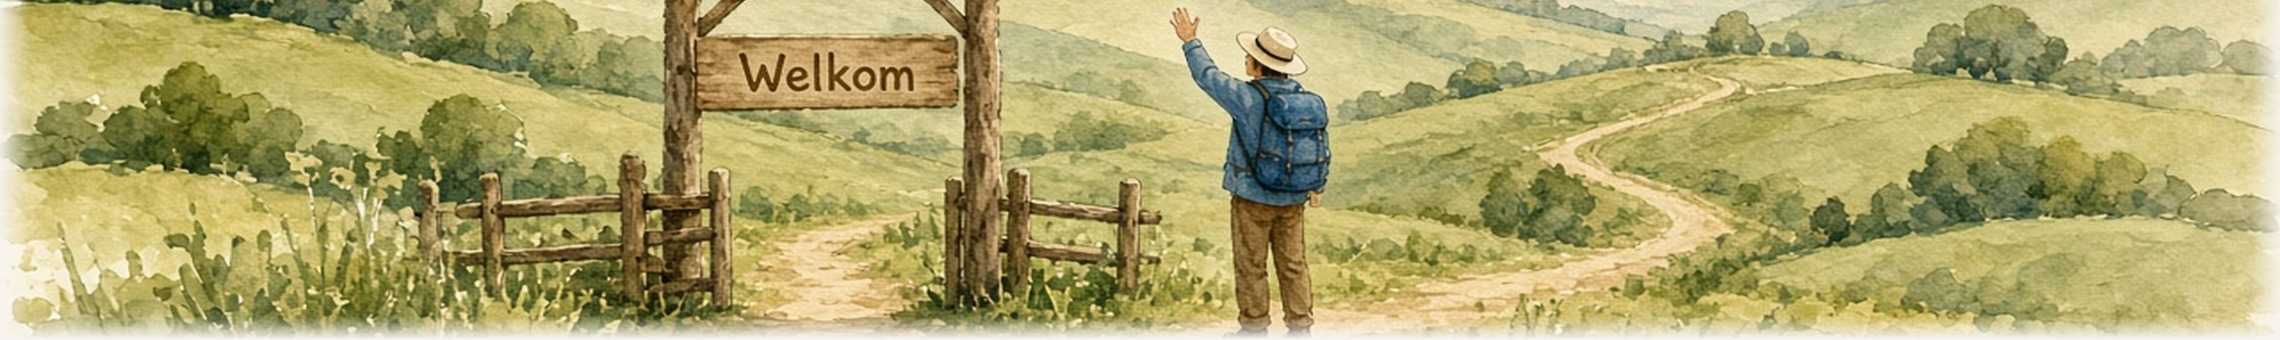
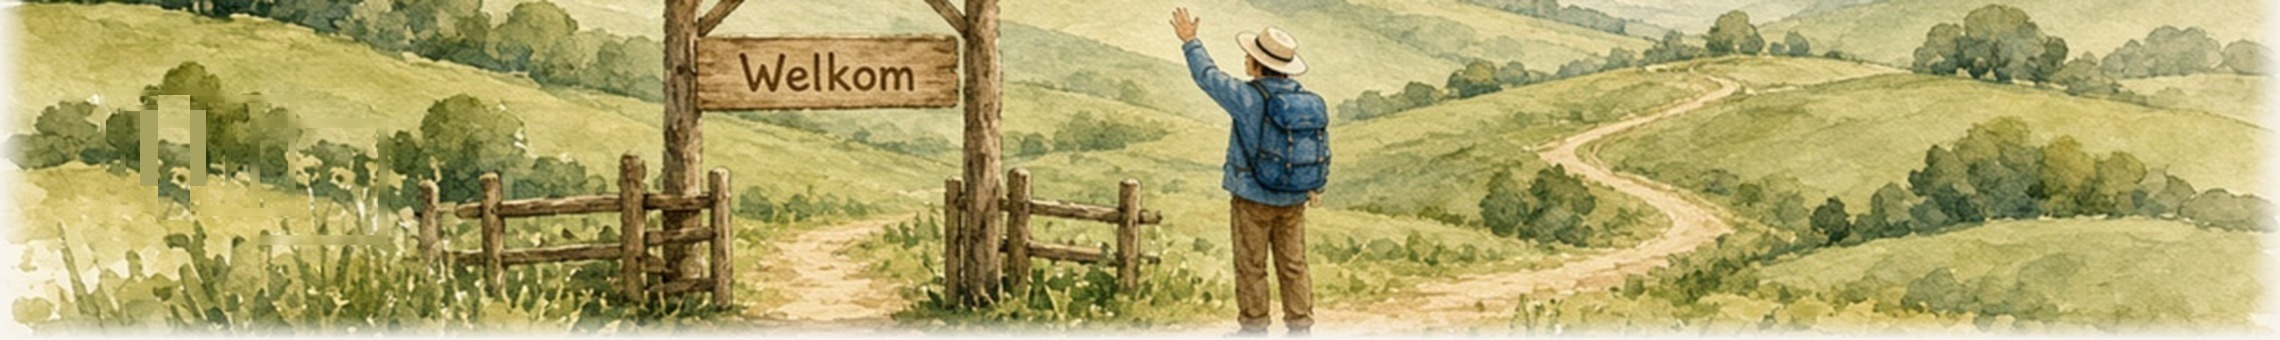
Start mockup start-b: hero without lobster, five phases, consistent timing.

diff --git a/Jobsy.Web/wwwroot/css/features/onboarding-rustig-mockup.css b/Jobsy.Web/wwwroot/css/features/onboarding-rustig-mockup.css
@@ -183,6 +183,22 @@
       var(--bg) 100%
     );
   }
+
+  .ob-rustig[data-ob-rustig-screen="start"] .ob-rustig__hero-band::after {
+    background: linear-gradient(
+      to bottom,
+      transparent 0%,
+      transparent 72%,
+      color-mix(in srgb, var(--bg) 28%, transparent) 88%,
+      color-mix(in srgb, var(--bg) 55%, transparent) 96%,
+      var(--bg) 100%
+    );
+  }
+
+  .ob-rustig[data-ob-rustig-screen="start"] .ob-rustig__hero-img {
+    object-fit: cover;
+    object-position: 42% 72%;
+  }
 }
 
 /* Step-06: full-width illustrated hero; title/lead in .ob-rustig__page-head below. */

diff --git a/tools/scripts/remove-onboarding-rustig-start-lobster.py b/tools/scripts/remove-onboarding-rustig-start-lobster.py
@@ -1,0 +1,104 @@
+#!/usr/bin/env python3
+"""Remove red lobster glyphs from start hero rasters (raw or band JPEGs)."""
+
+from __future__ import annotations
+
+import sys
+from pathlib import Path
+
+import numpy as np
+from PIL import Image
+
+ROOT = Path(__file__).resolve().parents[2]
+
+
+def lobster_red_mask(rgb: np.ndarray) -> np.ndarray:
+    r, g, b = rgb[:, :, 0], rgb[:, :, 1], rgb[:, :, 2]
+    return (r > 105) & (r > g + 16) & (r > b + 16) & (g < 140) & (b < 140)
+
+
+def glyph_mask(rgb: np.ndarray, *, max_cx_frac: float = 0.42) -> np.ndarray:
+    h, w = rgb.shape[:2]
+    mask = lobster_red_mask(rgb)
+    vis = np.zeros((h, w), dtype=bool)
+    glyph = np.zeros((h, w), dtype=bool)
+    for y in range(h):
+        for x in range(w):
+            if not mask[y, x] or vis[y, x]:
+                continue
+            stack = [(y, x)]
+            xs: list[int] = []
+            ys: list[int] = []
+            while stack:
+                cy, cx = stack.pop()
+                if cy < 0 or cy >= h or cx < 0 or cx >= w or vis[cy, cx] or not mask[cy, cx]:
+                    continue
+                vis[cy, cx] = True
+                xs.append(cx)
+                ys.append(cy)
+                stack.extend([(cy - 1, cx), (cy + 1, cx), (cy, cx - 1), (cy, cx + 1)])
+            area = len(xs)
+            if area < 10 or area > 8000:
+                continue
+            x0, x1 = min(xs), max(xs)
+            y0, y1 = min(ys), max(ys)
+            cxm = (x0 + x1) / 2 / w
+            if cxm > max_cx_frac:
+                continue
+            bh, bw = y1 - y0 + 1, x1 - x0 + 1
+            if bh > h * 0.45 or bw > w * 0.22:
+                continue
+            glyph[y0 : y1 + 1, x0 : x1 + 1] |= mask[y0 : y1 + 1, x0 : x1 + 1]
+    return glyph
+
+
+def inpaint(im: Image.Image, todo: np.ndarray) -> Image.Image:
+    rgb = np.asarray(im.convert("RGB"), dtype=np.float32)
+    h, w = rgb.shape[:2]
+    if not todo.any():
+        return im
+    out = rgb.copy()
+    ys, xs = np.where(todo)
+    for y, x in zip(ys, xs, strict=True):
+        acc = np.zeros(3, dtype=np.float64)
+        n = 0
+        for dy in range(-8, 9):
+            for dx in range(-8, 9):
+                if dx == 0 and dy == 0:
+                    continue
+                ny, nx = y + dy, x + dx
+                if ny < 0 or ny >= h or nx < 0 or nx >= w or todo[ny, nx]:
+                    continue
+                acc += out[ny, nx]
+                n += 1
+        if n:
+            out[y, x] = acc / n
+    return Image.fromarray(np.clip(out, 0, 255).astype(np.uint8))
+
+
+def clean(path: Path) -> None:
+    im = Image.open(path).convert("RGB")
+    rgb = np.asarray(im)
+    todo = glyph_mask(rgb)
+    fixed = inpaint(im, todo)
+    fixed.save(path, quality=95 if path.suffix.lower() in (".jpg", ".jpeg") else None)
+    left_red = int(lobster_red_mask(np.asarray(fixed))[:, : int(fixed.size[0] * 0.45)].sum())
+    print(f"{path.name}: removed {int(todo.sum())} px; left red x<45% = {left_red}")
+
+
+def main() -> None:
+    paths = [Path(p) for p in sys.argv[1:]]
+    if not paths:
+        paths = [
+            ROOT / "artifacts/onboarding-rustig-panorama-raw/start-desktop-raw.jpg",
+            ROOT / "Jobsy.Web/wwwroot/images/onboarding/rustig-panorama/start-desktop.jpg",
+            ROOT / "Jobsy.Web/wwwroot/images/onboarding/rustig-panorama/start-mobile.jpg",
+        ]
+    for path in paths:
+        if not path.is_file():
+            raise SystemExit(f"missing {path}")
+        clean(path)
+
+
+if __name__ == "__main__":
+    main()

diff --git a/tools/scripts/inpaint-onboarding-rustig-start-lobster-boxes.py b/tools/scripts/inpaint-onboarding-rustig-start-lobster-boxes.py
@@ -1,0 +1,91 @@
+#!/usr/bin/env python3
+"""Inpaint fence + rock lobster regions on start hero assets (start-b)."""
+
+from __future__ import annotations
+
+import sys
+from pathlib import Path
+
+import numpy as np
+from PIL import Image
+
+ROOT = Path(__file__).resolve().parents[2]
+DESK = (2280, 340)
+MOB = (780, 184)
+
+# Composite fence sprite on hero bands (desktop coords).
+DESK_FENCE_BOX = (18, 72, 310, 290)
+# Painted rock mascot visible in mobile band (780×184 coords).
+MOB_ROCK_BOX = (42, 38, 148, 158)
+# Painted rock mascot on 16:9 raw (1280×720 coords).
+RAW_ROCK_BOX = (80, 320, 520, 720)
+
+
+def scale_boxes(
+    boxes: tuple[tuple[int, int, int, int], ...], ref: tuple[int, int], target: tuple[int, int]
+) -> list[tuple[int, int, int, int]]:
+    rw, rh = ref
+    tw, th = target
+    sx, sy = tw / rw, th / rh
+    out: list[tuple[int, int, int, int]] = []
+    for x0, y0, x1, y1 in boxes:
+        out.append(
+            (
+                max(0, int(x0 * sx) - 2),
+                max(0, int(y0 * sy) - 2),
+                min(tw - 1, int(x1 * sx) + 2),
+                min(th - 1, int(y1 * sy) + 2),
+            )
+        )
+    return out
+
+
+def box_mask(h: int, w: int, boxes: list[tuple[int, int, int, int]]) -> np.ndarray:
+    m = np.zeros((h, w), dtype=bool)
+    for x0, y0, x1, y1 in boxes:
+        m[y0 : y1 + 1, x0 : x1 + 1] = True
+    return m
+
+
+def inpaint(im: Image.Image, todo: np.ndarray) -> Image.Image:
+    rgb = np.asarray(im.convert("RGB"), dtype=np.float32)
+    h, w = rgb.shape[:2]
+    out = rgb.copy()
+    ys, xs = np.where(todo)
+    for y, x in zip(ys, xs, strict=True):
+        acc = np.zeros(3, dtype=np.float64)
+        n = 0
+        for dy in range(-10, 11):
+            for dx in range(-10, 11):
+                ny, nx = y + dy, x + dx
+                if ny < 0 or ny >= h or nx < 0 or nx >= w or todo[ny, nx]:
+                    continue
+                acc += out[ny, nx]
+                n += 1
+        if n:
+            out[y, x] = acc / n
+    return Image.fromarray(np.clip(out, 0, 255).astype(np.uint8))
+
+
+def patch(path: Path, boxes: list[tuple[int, int, int, int]]) -> None:
+    im = Image.open(path).convert("RGB")
+    w, h = im.size
+    todo = box_mask(h, w, boxes)
+    fixed = inpaint(im, todo)
+    fixed.save(path, quality=95 if path.suffix.lower() in (".jpg", ".jpeg") else None)
+    print(f"{path.name}: inpainted {int(todo.sum())} px in {len(boxes)} box(es)")
+
+
+def main() -> None:
+    desk_path = ROOT / "Jobsy.Web/wwwroot/images/onboarding/rustig-panorama/start-desktop.jpg"
+    mob_path = ROOT / "Jobsy.Web/wwwroot/images/onboarding/rustig-panorama/start-mobile.jpg"
+    raw_path = ROOT / "artifacts/onboarding-rustig-panorama-raw/start-desktop-raw.jpg"
+    patch(desk_path, [DESK_FENCE_BOX])
+    patch(mob_path, [*scale_boxes((DESK_FENCE_BOX,), DESK, MOB), MOB_ROCK_BOX])
+    if raw_path.is_file():
+        rw, rh = Image.open(raw_path).size
+        patch(raw_path, scale_boxes((RAW_ROCK_BOX,), (1280, 720), (rw, rh)))
+
+
+if __name__ == "__main__":
+    main()

diff --git a/tools/scripts/report-onboarding-rustig-start.py b/tools/scripts/report-onboarding-rustig-start.py
@@ -1,0 +1,58 @@
+#!/usr/bin/env python3
+"""Full-page start mockup captures (1440 + 390)."""
+
+from __future__ import annotations
+
+import subprocess
+import time
+from pathlib import Path
+
+from playwright.sync_api import sync_playwright
+
+ROOT = Path(__file__).resolve().parents[2]
+OUT = Path("/opt/cursor/artifacts/onboarding-rustig-mockups")
+CACHE = "20261020-start-b"
+
+
+def main() -> None:
+    OUT.mkdir(parents=True, exist_ok=True)
+    subprocess.run(["pkill", "-f", "127.0.0.1:8765"], stdout=subprocess.DEVNULL, stderr=subprocess.DEVNULL)
+    proc = subprocess.Popen(
+        ["dotnet", "run", "--project", str(ROOT / "Jobsy.Web/Jobsy.Web.csproj"), "--urls", "http://127.0.0.1:8765"],
+        cwd=ROOT,
+        stdout=subprocess.DEVNULL,
+        stderr=subprocess.DEVNULL,
+    )
+    base = "http://127.0.0.1:8765"
+    url = f"{base}/mockups/onboarding-rustig/start?cb={CACHE}"
+    try:
+        with sync_playwright() as p:
+            browser = p.chromium.launch(headless=True)
+            for _ in range(120):
+                try:
+                    pg = browser.new_page()
+                    pg.goto(f"{base}/mockups/onboarding-rustig/start", timeout=5000)
+                    pg.close()
+                    break
+                except Exception:
+                    time.sleep(1)
+            else:
+                raise SystemExit("server not up")
+
+            for w, h, label in ((1440, 900, "desktop-1440"), (390, 844, "mobile-390")):
+                page = browser.new_page(viewport={"width": w, "height": h})
+                page.goto(url, wait_until="networkidle")
+                page.wait_for_selector("[data-testid=ob-rustig-hero]", timeout=30_000)
+                page.wait_for_timeout(600)
+                page.screenshot(path=str(OUT / f"start-b-{label}-full.png"), full_page=True)
+                page.close()
+            browser.close()
+    finally:
+        proc.terminate()
+        proc.wait(timeout=30)
+    sha = subprocess.check_output(["git", "rev-parse", "--short", "HEAD"], cwd=ROOT, text=True).strip()
+    print(f"start-b full page OK @ {sha}")
+
+
+if __name__ == "__main__":
+    main()

diff --git a/Jobsy.Web/OnboardingRustigMockups/OnboardingRustigPanoramaAssets.cs b/Jobsy.Web/OnboardingRustigMockups/OnboardingRustigPanoramaAssets.cs
@@ -3,10 +3,14 @@ namespace Jobsy.Web.OnboardingRustigMockups;
 public static class OnboardingRustigPanoramaAssets
 {
     public const string Version = "20261020-u10a";
+    public const string StartVersion = "20261020-start-b";
 
     public static string Desktop(string slug) =>
-        $"/images/onboarding/rustig-panorama/{slug}-desktop.jpg?v={Version}";
+        $"/images/onboarding/rustig-panorama/{slug}-desktop.jpg?v={CacheVersion(slug)}";
 
     public static string Mobile(string slug) =>
-        $"/images/onboarding/rustig-panorama/{slug}-mobile.jpg?v={Version}";
+        $"/images/onboarding/rustig-panorama/{slug}-mobile.jpg?v={CacheVersion(slug)}";
+
+    private static string CacheVersion(string slug) =>
+        string.Equals(slug, "start", StringComparison.OrdinalIgnoreCase) ? StartVersion : Version;
 }

diff --git a/Jobsy.Web/OnboardingRustigMockups/OnboardingRustigMockupContent.cs b/Jobsy.Web/OnboardingRustigMockups/OnboardingRustigMockupContent.cs
@@ -5,6 +5,18 @@ namespace Jobsy.Web.OnboardingRustigMockups;
 
 public static class OnboardingRustigMockupContent
 {
+    public sealed record StartPhaseCard(string Number, string Title, string Sub, string? Meta);
+
+    /// <summary>Start screen journey list (matches sidebar nav).</summary>
+    public static readonly StartPhaseCard[] StartJourneyPhases =
+    [
+        new("1", "Over jou", "Waar je woont en wanneer je kunt", "3 stappen"),
+        new("2", "Achtergrond", "Optioneel", null),
+        new("3", "Droom", "1 stap", null),
+        new("4", "Wie ben jij", "4 korte tests", null),
+        new("5", "Jouw Kompas", "bijna klaar", null),
+    ];
+
     public sealed record KompasDirectionCard(string Title, string Body, string ImageUrl);
 
     public static readonly KompasDirectionCard[] KompasDirections =

diff --git a/Jobsy.Web/OnboardingRustigMockups/OnboardingRustigMockupRegistry.cs b/Jobsy.Web/OnboardingRustigMockups/OnboardingRustigMockupRegistry.cs
@@ -1,3 +1,4 @@
+using Jobsy.Core.Rules;
 using Jobsy.Web.Onboarding;
 
 namespace Jobsy.Web.OnboardingRustigMockups;
@@ -31,7 +32,7 @@ public static class OnboardingRustigMockupRegistry
 {
     public static readonly IReadOnlyList<OnboardingRustigMockupScreen> Ordered =
     [
-        new("start", 0, "Over jou", 12, OnboardingRustigMockupKind.Start,
+        new("start", 0, "Over jou", OnboardingWizardCatalog.V3TotalMinutesEstimate, OnboardingRustigMockupKind.Start,
             null, null,
             OnboardingIllustrationAssets.KennismakenJpg,
             OnboardingIllustrationAssets.KennismakenWebp, "50% 45%"),
